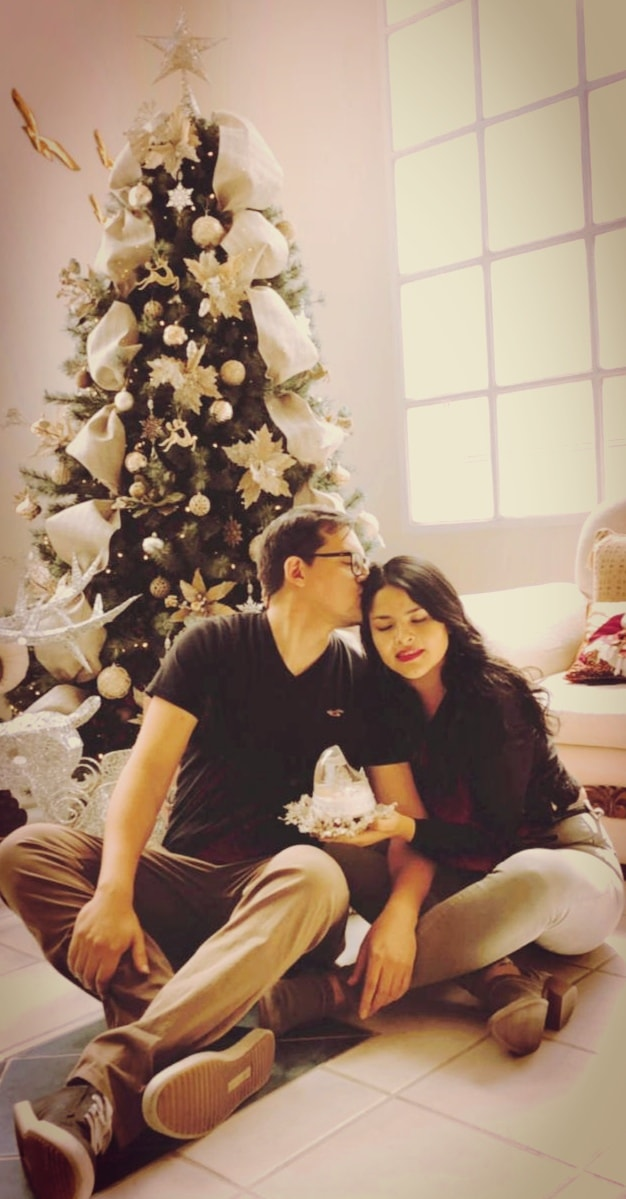
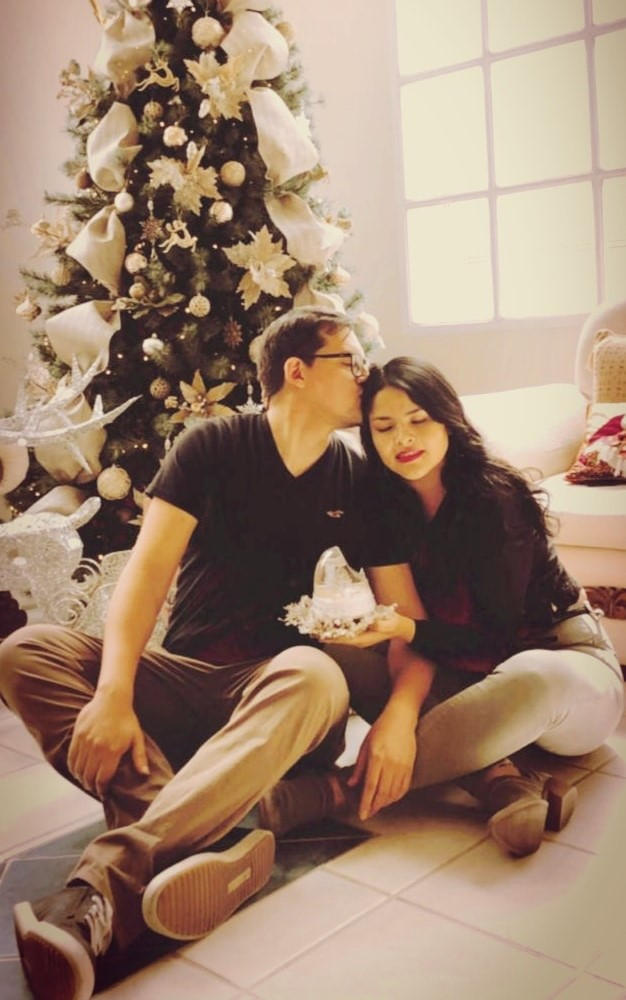
Optimize header/images

diff --git a/src/index.html b/src/index.html
@@ -94,7 +94,7 @@
         class="bg-perso align-items-center"
         style="height: auto; display: flex"
       >
-        <div class="container">
+        <div class="container" style="max-width: 800px">
           <div class="gallery-row">
             <div class="column">
               <img src="images/gallery/1.jpg" style="width: 100%" />
